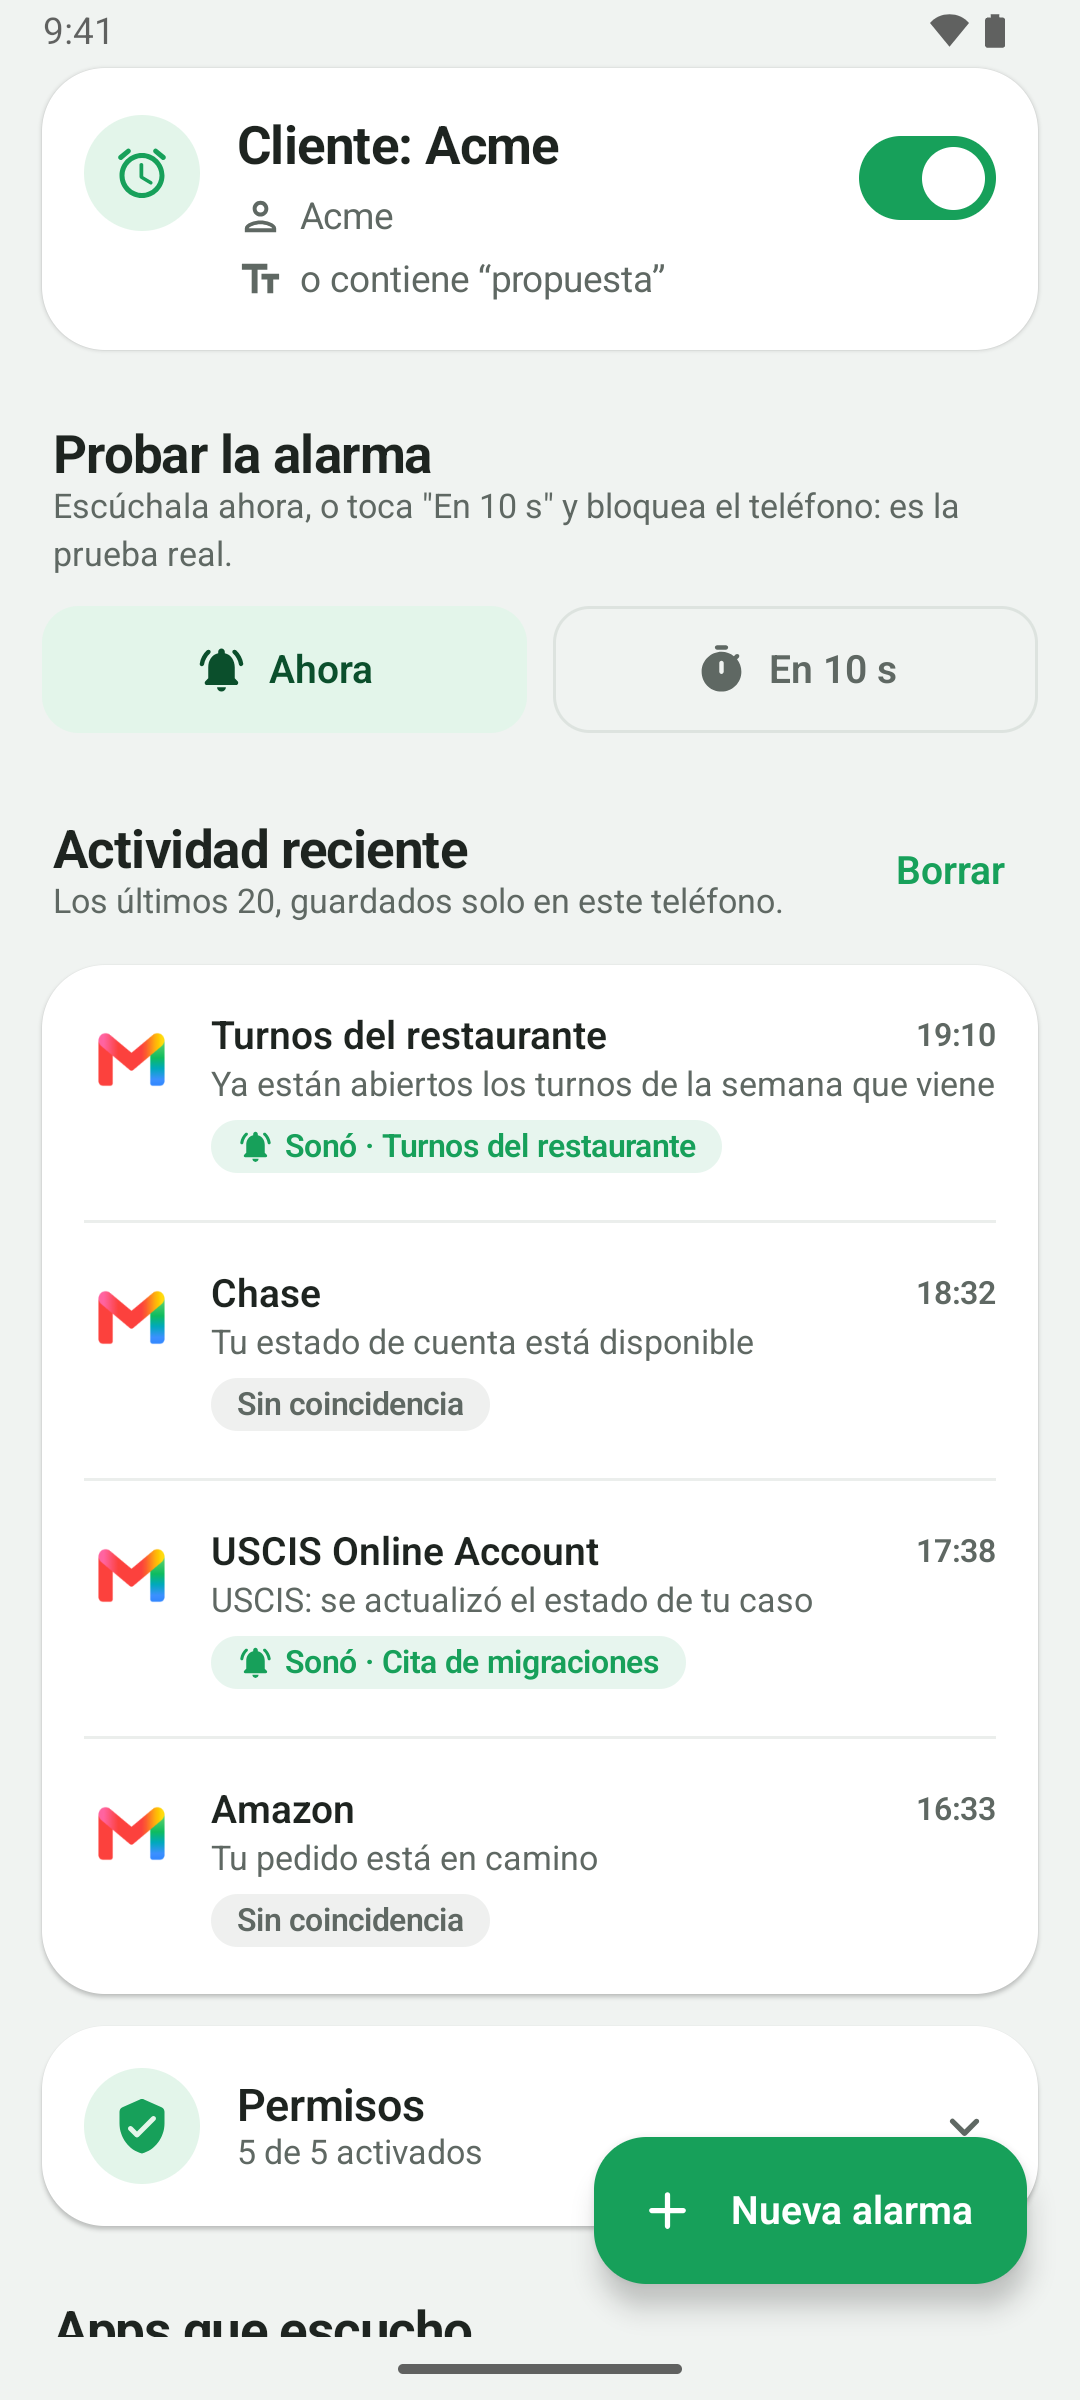
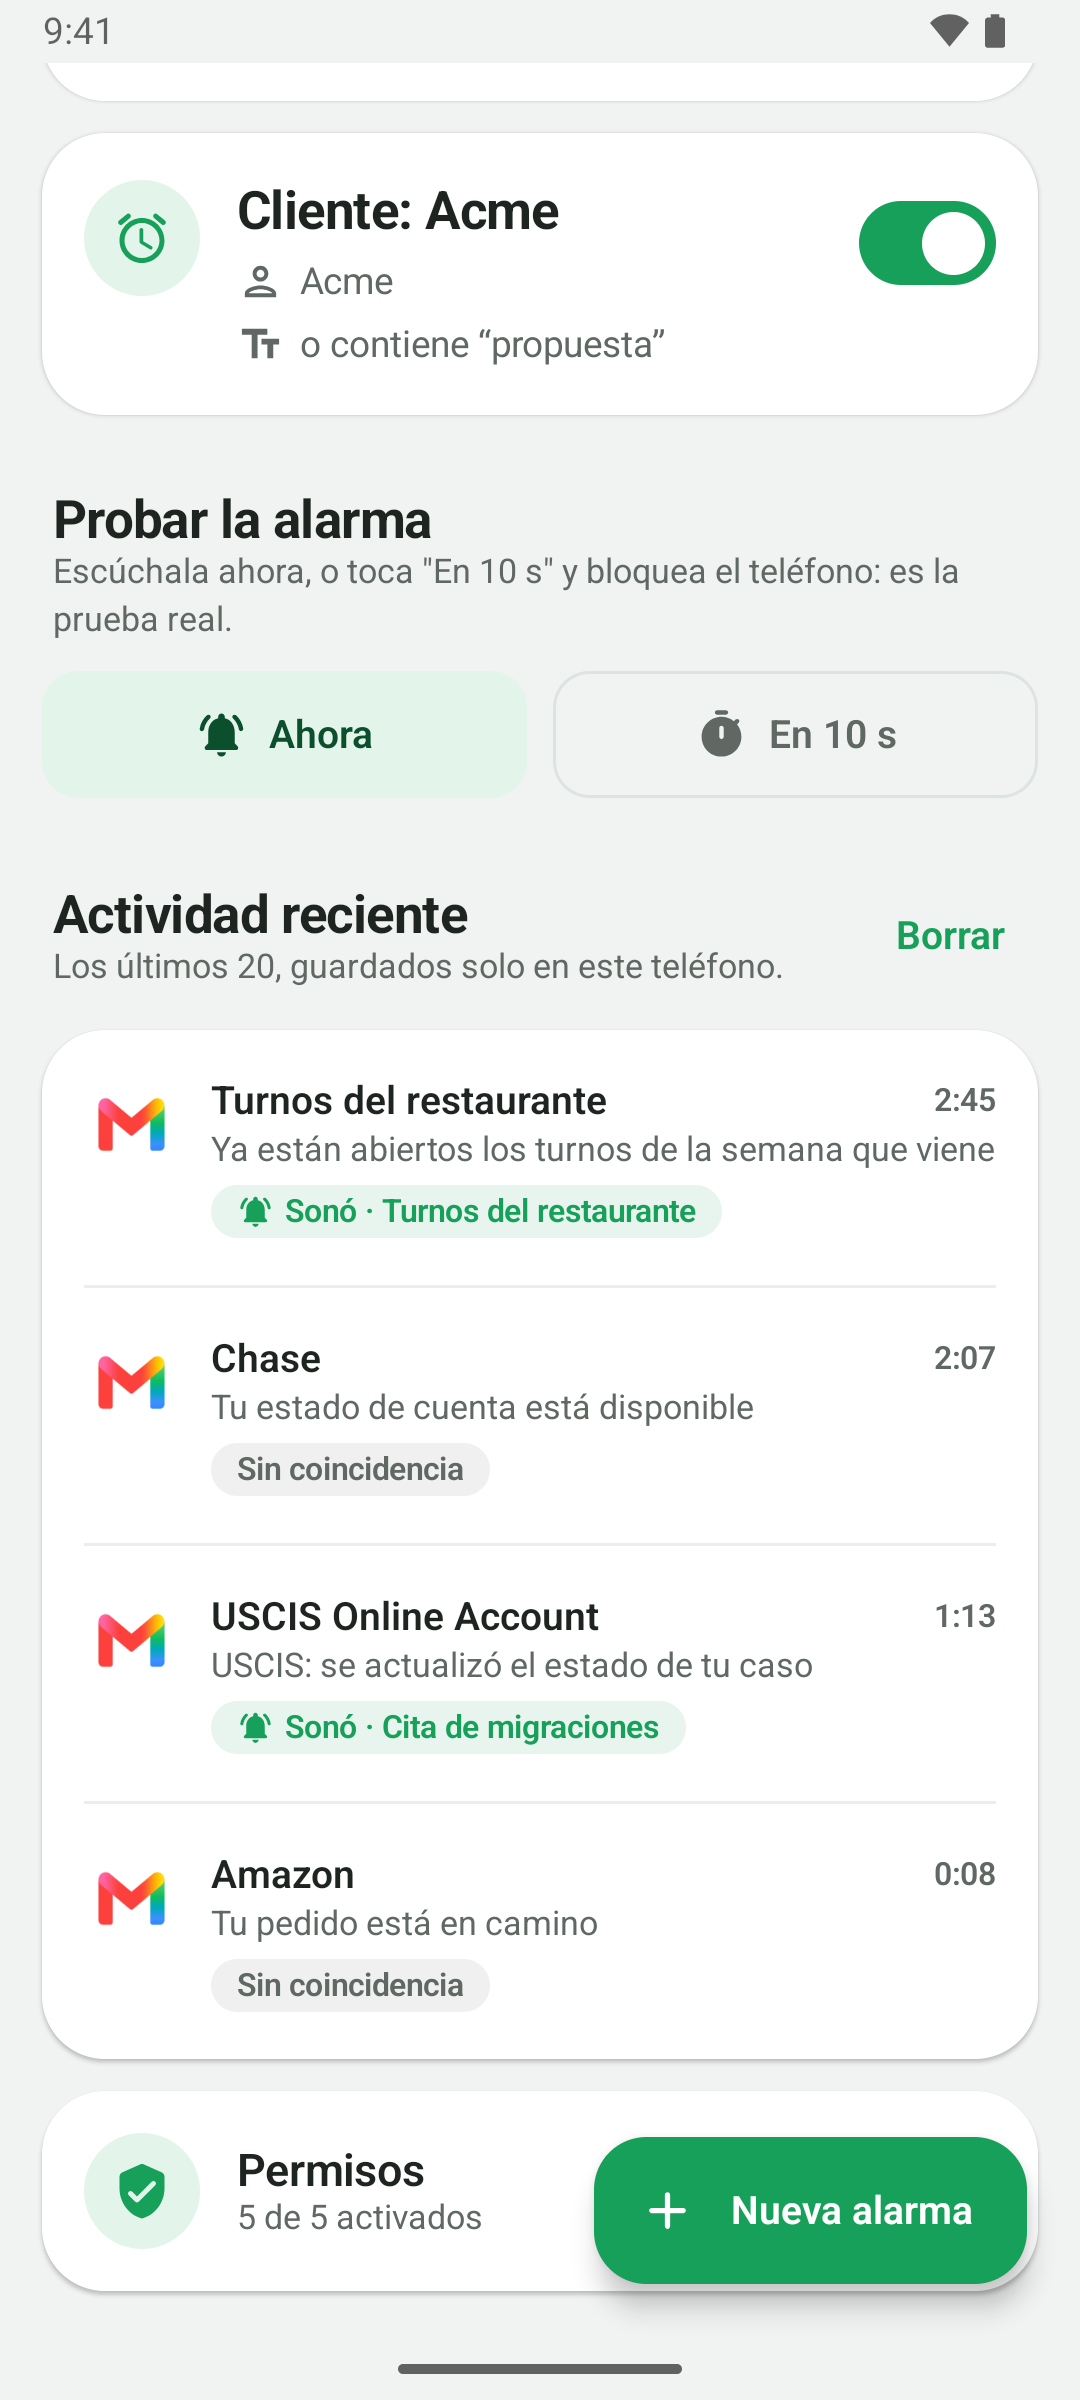
Capturas: una quinta, la de dias y horario
La funcion nueva no aparecia en ninguna captura de la ficha. Ahora la alarma
de demostracion de los turnos trae dias y horario (lunes a viernes, 08:00 a
20:00), asi que el resumen se ve tambien en la tarjeta de la pantalla
principal, y capturas.sh saca la pantalla del formulario con la seccion
desplegada. Esa pieza usa el telefono entero: el formulario esta scrolleado
hasta el final y con el telefono cortado se perdian las horas.

Actividad pasa de la posicion 4 a la 5.

diff --git a/app/src/debug/java/com/reverstabilizer/emailalarm/DemoReceiver.kt b/app/src/debug/java/com/reverstabilizer/emailalarm/DemoReceiver.kt
@@ -70,17 +70,26 @@ class DemoReceiver : BroadcastReceiver() {
     }
 
     private fun cargarReglas(context: Context, espanol: Boolean) {
+        // La de los turnos tiene dias y horario, para que las capturas muestren
+        // la funcion: el resumen aparece en la tarjeta y en el formulario.
+        val turnos = Horario(Horario.LUNES_A_VIERNES, 8 * 60, 20 * 60)
         val reglas = if (espanol) {
             listOf(
                 Regla(nombre = "Cliente: Acme", remitente = "Acme", palabraClave = "propuesta"),
                 Regla(nombre = "Cita de migraciones", palabraClave = "USCIS"),
-                Regla(nombre = "Turnos del restaurante", remitente = "turnos@bistro.com")
+                Regla(
+                    nombre = "Turnos del restaurante", remitente = "turnos@bistro.com",
+                    dias = turnos.dias, desde = turnos.desde, hasta = turnos.hasta
+                )
             )
         } else {
             listOf(
                 Regla(nombre = "Client: Acme", remitente = "Acme", palabraClave = "proposal"),
                 Regla(nombre = "Immigration appointment", palabraClave = "USCIS"),
-                Regla(nombre = "Restaurant shifts", remitente = "shifts@bistro.com")
+                Regla(
+                    nombre = "Restaurant shifts", remitente = "shifts@bistro.com",
+                    dias = turnos.dias, desde = turnos.desde, hasta = turnos.hasta
+                )
             )
         }
 

diff --git a/play/marketing.py b/play/marketing.py
@@ -29,6 +29,8 @@ TEXTOS = {
          "Fuerte, a pantalla completa, aunque el teléfono esté en silencio.", True),
         ("editar", "Suena únicamente con <em>las cosas importantes para ti</em>",
          "Pon “uscis” y también suena con “USCIS Online Account”.", False),
+        ("horario", "Solo suena <em>cuando tiene que sonar</em>",
+         "Elige los días y las horas de cada alarma. Fuera de eso, silencio.", True),
         ("actividad", "Pruébala antes de <em>necesitarla</em>",
          "Y mira cada email que detectó. Nada sale de tu teléfono.", False),
     ],
@@ -39,6 +41,8 @@ TEXTOS = {
          "Loud, full screen, even with your phone on silent.", True),
         ("editar", "It only rings for <em>the things that matter to you</em>",
          "Type “uscis” and it also rings for “USCIS Online Account”.", False),
+        ("horario", "Only when it <em>should</em> ring",
+         "Pick the days and the hours of each alarm. Outside them, it stays quiet.", True),
         ("actividad", "Test it before you <em>need it</em>",
          "See every email it caught. Nothing leaves your phone.", False),
     ],
